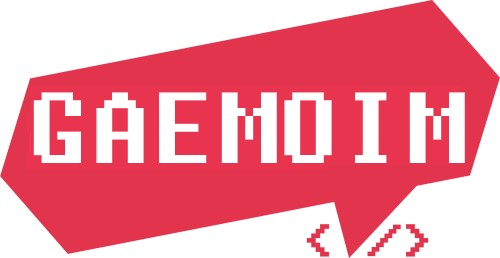
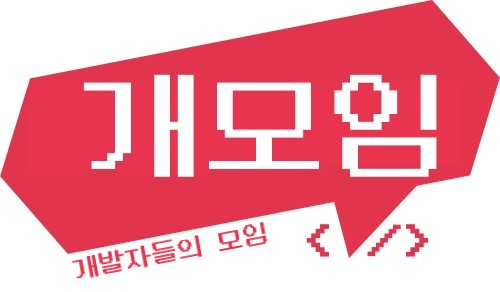
상세페이지 신청하기 버튼 추가, 헤더 로고 수정

diff --git a/src/components/Post.js b/src/components/Post.js
@@ -13,19 +13,22 @@ const Post = (props) => {
       <Grid is_center padding='5vh 3vw 3vh 3vw'>
           <Text bold size='4vh'>제목</Text>
         </Grid>
-        <Div>
-            <Text color='white' size='1.8vh' bold>모집중</Text>
-            </Div>
-            <Text bold size='2vh' margin='0 0 0 10px'>0/4</Text>
+        <Diva><Text color='white' size='1.8vh' bold>모집중</Text></Diva>
           <span style={{float: 'right', fontSize: '1.7vh', fontWeight: 'bold'}}>작성자: 익명</span>
           <Grid is_right>
             <span style={{fontSize: '1.7vh', fontWeight: 'bold'}}>작성시각: 2021-07-10 01:33</span>
           </Grid>
-          <Grid is_right margin_top='1vh'>
-            <Button width='60px' height='3vh' backgroundColor='#E8344E' color='white' border='none' borderTLRadius='1vh' borderBLRadius='1vh' fontWeight='bold' text='수정'></Button>
-            <Button width='60px' height='3vh' color='white' border='none' borderTRRadius='1vh' borderBRRadius='1vh' fontWeight='bold' backgroundColor='#E8344E' margin='0 0 0 0.2vw' text='삭제'></Button>
-          </Grid>
-          <Paper variant="outlined" style={{margin: '3vh 0 3vh 0', borderRadius: '1vw', padding: '1vh'}}><Text size='2vh'>ㅁㅁㅁㅁㅁㅁㅁㅁㅁㅁㅁㅁㅁㅁㅁㅁㅁㅁㅁㅁㅁㅁㅁㅁ<br></br>ㅁㅁㅁㅁㅁㅁㅁㅁㅁㅁㅁㅁㅁㅁㅁㅁㅁㅁㅁㅁㅁㅁㅁㅁㅁ<br></br>ㅁㅁㅁㅁㅁㅁㅁㅁㅁㅁㅁㅁㅁㅁㅁㅁㅁㅁㅁㅁㅁㅁㅁㅁㅁㅁㅁㅁㅁㅁㅁㅁㅁㅁㅁㅁㅁㅁㅁㅁㅁㅁㅁㅁㅁㅁㅁㅁㅁㅁㅁㅁㅁㅁㅁㅁㅁㅁㅁㅁㅁㅁㅁㅁㅁㅁㅁㅁㅁㅁㅁㅁㅁㅁㅁㅁㅁㅁㅁㅁㅁㅁㅁㅁ<br></br>ㅁㅁㅁㅁㅁㅁㅁㅁㅁㅁㅁㅁㅁㅁㅁㅁㅁㅁㅁ<br></br>ㅁㅁㅁㅁㅁㅁㅁㅁㅁㅁㅁㅁㅁㅁㅁㅁㅁㅁㅁㅁㅁㅁㅁㅁㅁㅁㅁㅁㅁㅁㅁㅁㅁㅁㅁㅁㅁ<br></br>ㅁㅁㅁㅁㅁㅁㅁㅁㅁㅁㅁㅁㅁㅁㅁㅁㅁㅁㅁㅁㅁㅁㅁㅁㅁㅁㅁㅁㅁㅁㅁㅁㅁㅁㅁㅁ</Text></Paper>
+          <div style={{display: 'flex', justifyContent: 'space-between'}}>
+            <div style={{display: 'flex', flexDirection: 'column'}}>
+            <Divb><Text color='#E8344E' size='1.3vh' bold>신청하기</Text></Divb>
+              <Text size='xx-small' margin='5px 0 0 1.5vw' color='#E8344E' ><strong>4</strong>자리 남음!</Text>
+            </div>
+            <div style={{paddingTop: '2.5vh'}}>
+              <Button width='60px' height='3vh' backgroundColor='#E8344E' color='white' border='none' borderTLRadius='1vh' borderBLRadius='1vh' fontWeight='bold' text='수정'></Button>
+              <Button width='60px' height='3vh' color='white' border='none' borderTRRadius='1vh' borderBRRadius='1vh' fontWeight='bold' backgroundColor='#E8344E' margin='0 0 0 0.2vw' text='삭제'></Button>
+            </div>
+          </div>
+          <Paper variant="outlined" style={{margin: '1vh 0 3vh 0', borderRadius: '1vw', padding: '1vh'}}><Text size='2vh'>ㅁㅁㅁㅁㅁㅁㅁㅁㅁㅁㅁㅁㅁㅁㅁㅁㅁㅁㅁㅁㅁㅁㅁㅁ<br></br>ㅁㅁㅁㅁㅁㅁㅁㅁㅁㅁㅁㅁㅁㅁㅁㅁㅁㅁㅁㅁㅁㅁㅁㅁㅁ<br></br>ㅁㅁㅁㅁㅁㅁㅁㅁㅁㅁㅁㅁㅁㅁㅁㅁㅁㅁㅁㅁㅁㅁㅁㅁㅁㅁㅁㅁㅁㅁㅁㅁㅁㅁㅁㅁㅁㅁㅁㅁㅁㅁㅁㅁㅁㅁㅁㅁㅁㅁㅁㅁㅁㅁㅁㅁㅁㅁㅁㅁㅁㅁㅁㅁㅁㅁㅁㅁㅁㅁㅁㅁㅁㅁㅁㅁㅁㅁㅁㅁㅁㅁㅁㅁ<br></br>ㅁㅁㅁㅁㅁㅁㅁㅁㅁㅁㅁㅁㅁㅁㅁㅁㅁㅁㅁ<br></br>ㅁㅁㅁㅁㅁㅁㅁㅁㅁㅁㅁㅁㅁㅁㅁㅁㅁㅁㅁㅁㅁㅁㅁㅁㅁㅁㅁㅁㅁㅁㅁㅁㅁㅁㅁㅁㅁ<br></br>ㅁㅁㅁㅁㅁㅁㅁㅁㅁㅁㅁㅁㅁㅁㅁㅁㅁㅁㅁㅁㅁㅁㅁㅁㅁㅁㅁㅁㅁㅁㅁㅁㅁㅁㅁㅁ</Text></Paper>
         <Text size='1.8vh' color='#E8344E' bold>댓글 1개</Text>
         <Grid is_center margin_top='3vh'>
           <Input type='text' placeholder='댓글을 입력해 주세요' width='60vw' height='3vh' fontSize='1.5vh' border='1px solid rgba(232, 52, 78, 0.4)' borderRadius='0.8vw' padding='0 0 0 1vw'></Input>
@@ -35,11 +38,22 @@ const Post = (props) => {
   )
 };
 
-const Div = styled.span`
-  border: 1px solid #E8344E;
+const Diva = styled.span`
   border-radius: 30px;
   background-color: #E8344E;
   padding: 1.3vh 1.7vw 1.3vh 1.7vw;
+`;
+
+const Divb = styled.span`
+  border-radius: 30px;
+  background-color: #fff;
+  padding: 1.3vh 1.7vw 1.3vh 1.7vw;
+  border: 1px solid #e8344e;
+  &:hover {
+    opacity: 0.8;
+  }
+  cursor: pointer;
+  box-shadow: 0 3px 5px #ccc;
 `;
 
 export default Post;

diff --git a/src/element/Button.js b/src/element/Button.js
@@ -2,7 +2,7 @@ import React from 'react';
 import styled from 'styled-components';
 
 const Button = (props) => {
-  const {text, backgroundColor, color, fontSize, fontWeight, border, borderRadius, borderTLRadius, borderTRRadius, borderBLRadius, borderBRRadius, width, height, margin, padding, top, right, left, bottom, _onClick, } = props;
+  const {text, backgroundColor, color, fontSize, fontWeight, border, borderRadius, borderTLRadius, borderTRRadius, borderBLRadius, borderBRRadius, width, maxWidth, height, maxHeight, margin, padding, top, right, left, bottom, _onClick, } = props;
   const styles = {
     backgroundColor: backgroundColor,
     color: color,
@@ -15,7 +15,9 @@ const Button = (props) => {
     borderBLRadius: borderBLRadius,
     borderBRRadius: borderBRRadius,
     width: width,
+    maxWidth: maxWidth,
     height: height,
+    maxHeight: maxHeight,
     margin: margin,
     padding: padding,
     top: top,
@@ -45,7 +47,9 @@ Button.defaultProps = {
   borderBLRadius: null,
   borderBRRadius: null,
   width: null,
+  maxWidth: null,
   height: null,
+  maxHeight: null,
   margin: null,
   padding: null,
   top: null,
@@ -67,7 +71,9 @@ const Btn = styled.button`
   border-bottom-left-radius: ${(props) => props.borderBLRadius};
   border-bottom-right-radius: ${(props) => props.borderBRRadius};
   width: ${(props) => props.width};
+  max-width: ${(props) => props.maxWidth};
   height: ${(props) => props.height};
+  max-height: ${(props) => props.maxHeight};
   margin: ${(props) => props.margin}; 
   padding: ${(props) => props.padding};
   top: ${(props) => props.top};

diff --git a/src/components/Card.js b/src/components/Card.js
@@ -2,8 +2,8 @@ import React from "react";
 import Grid from "../element/Grid";
 import Text from "../element/Text";
 import { makeStyles } from '@material-ui/core/styles';
-import Fab from '@material-ui/core/Fab';
 import AddIcon from '@material-ui/icons/Add';
+import styled from 'styled-components';
 
 const Card = (props) => {
 
@@ -18,7 +18,7 @@ const Card = (props) => {
     const classes = useStyles();
     return (
         <React.Fragment>
-            <Grid is_center>
+            <Grid is_center position="relative">
                 <Grid _onClick={()=> {}}
                 br="40px" width="300px" height="400px" dp="inline-block" box_shadow="0 4px 25px 0px rgb(0 0 0 / 15%)" margin="20px">
                     <Grid bbs="solid" width="250px" bc="#E6E6E6" margin="20px auto" height="40px" color="black">
@@ -82,9 +82,6 @@ const Card = (props) => {
                     <Grid margin="0 auto" padding="10px"br="16px" width="70px" color="white" height="40px" bg="rgb(232, 52, 78)">모집중</Grid>
                 </Grid>
             </Grid>
-            <Fab size="large" color="secondary" aria-label="add" className={classes.fab}>
-            <AddIcon />
-            </Fab>
         </React.Fragment>
     )
 }

diff --git a/src/components/CommentList.js b/src/components/CommentList.js
@@ -11,6 +11,7 @@ const CommentList = (props) => {
       <Box>
           <Div><Text color='#E8344E' bold>르탄이 <img src={spartalt} style={{width: '2vw'}}/></Text></Div>
           <Text margin='0 1vw 0 0'>ㅁㅁㅁ라니, 정말 흥미로운 주제군요!</Text>
+          <Text margin='0 1vw 0 0'>2021-07-10 15:25</Text>
           <Button width='60px' height='3vh' backgroundColor='#E8344E' color='white' border='none' borderTLRadius='1vh' borderBLRadius='1vh' fontWeight='bold' text='수정'></Button>
             <Button width='60px' height='3vh' color='white' border='none' borderTRRadius='1vh' borderBRRadius='1vh' fontWeight='bold' backgroundColor='#E8344E' margin='0 0 0 0.2vw' text='삭제'></Button>
       </Box>
@@ -19,7 +20,7 @@ const CommentList = (props) => {
 };
 
 const Div = styled.span`
-  padding: 1vh 1vh 1vw;
+  padding: 1vh 0 1vh;
   margin-right: 1vw;
   
 `;

diff --git a/src/pages/MainPage.js b/src/pages/MainPage.js
@@ -2,8 +2,7 @@ import React from "react";
 import Footer from "../components/Footer"
 import Grid from "../element/Grid";
 import Header from '../components/Header';
-import Card from "../components/Card"
-
+import Card from "../components/Card";
 
 const MainPage = (props) => {
 
